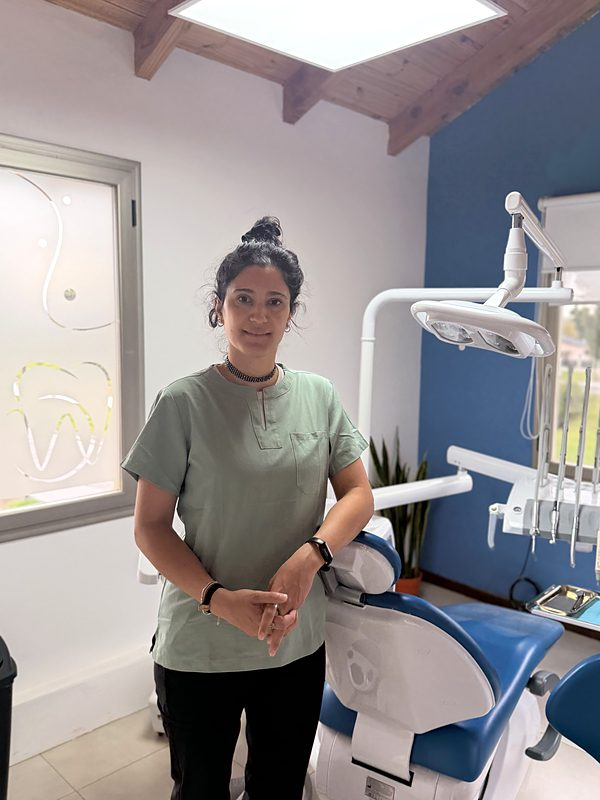
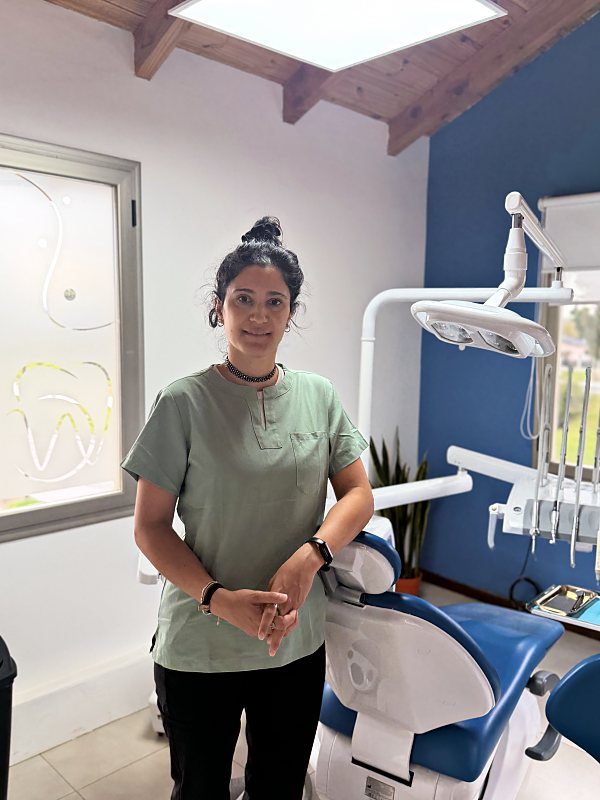
Fotos: retoque más marcado y escenas de atención
Nuevo revelado parejo para todas: balance de blancos sobre las paredes,
blancos más limpios, curva de contraste suave, claridad, más color sin
tocar la piel y nitidez con máscara. Los ambientes se enderezan
(verticales y horizonte); las fotos con personas no se deforman.

Suma escenas de los videos: atención en el sillón en el inicio y una
consulta en el escritorio en /nati/. Cambia la ficha con datos escritos
por un detalle de instrumental y ajusta formatos de los huecos altos.

Claude-Session: https://claude.ai/code/session_01KoU4Ukg6g7rux7BHJJZ492

Changed region(s): [[0.42, 0.2812, 0.48, 0.3125], [0.39, 0.875, 0.42, 0.9375], [0.84, 0.375, 0.87, 0.4062]]

diff --git a/index.html b/index.html
@@ -8,7 +8,7 @@
 <meta name="theme-color" content="#2B3B5A">
 <meta property="og:title" content="Consultorios Dina Huapi">
 <meta property="og:description" content="Odontología de cerca, para niños y adultos, en Dina Huapi.">
-<meta property="og:image" content="https://santiagojdv.github.io/consultorios-dina-huapi/img/nati-consultorio.jpg">
+<meta property="og:image" content="https://santiagojdv.github.io/consultorios-dina-huapi/img/hero-atencion.jpg">
 <meta property="og:type" content="website">
 <meta property="og:locale" content="es_AR">
 <link rel="icon" href="turnos/icono.svg" type="image/svg+xml">
@@ -16,9 +16,9 @@
 <link rel="preconnect" href="https://fonts.gstatic.com" crossorigin>
 <link rel="stylesheet" href="https://fonts.googleapis.com/css2?family=Cormorant+Garamond:wght@500;600&family=Poppins:wght@300;400;500&display=swap">
 <link rel="stylesheet" href="assets/sitio.css">
-<link rel="preload" as="image" href="img/nati-consultorio.jpg">
+<link rel="preload" as="image" href="img/hero-atencion.jpg">
 <script type="application/ld+json">
-{"@context":"https://schema.org","@type":"Dentist","name":"Consultorios Dina Huapi","address":{"@type":"PostalAddress","streetAddress":"Estados Unidos 860, Oficina D","addressLocality":"Dina Huapi","addressRegion":"Río Negro","addressCountry":"AR"},"image":"img/nati-consultorio.jpg"}
+{"@context":"https://schema.org","@type":"Dentist","name":"Consultorios Dina Huapi","address":{"@type":"PostalAddress","streetAddress":"Estados Unidos 860, Oficina D","addressLocality":"Dina Huapi","addressRegion":"Río Negro","addressCountry":"AR"},"image":"img/hero-atencion.jpg"}
 </script>
 </head>
 <body>
@@ -72,7 +72,7 @@
         </div>
       </div>
       <div class="hero-media reveal d1">
-        <img src="img/nati-consultorio.jpg" alt="La Dra. Natalia Cárdenas sentada junto al sillón odontológico en el consultorio" width="1024" height="1280" fetchpriority="high">
+        <img src="img/hero-atencion.jpg" alt="La Dra. Natalia Cárdenas atendiendo a una paciente en el sillón odontológico" width="1024" height="1280" fetchpriority="high">
         <a class="hero-badge" href="turnos/"><span class="dot" aria-hidden="true"></span><span><strong>Turnos online</strong><br>Elegí día y horario desde el celular.</span></a>
       </div>
     </div>
@@ -96,8 +96,8 @@
   <section class="section navy director" id="natalia" aria-labelledby="natalia-titulo">
     <div class="wrap director-grid">
       <div class="director-media reveal">
-        <img class="main" src="img/nati-trabajando.jpg" alt="La Dra. Natalia Cárdenas preparando el instrumental junto al sillón" width="896" height="1120" loading="lazy">
-        <img class="inset" src="img/fichas.jpg" alt="Manos sosteniendo una ficha odontológica" width="400" height="600" loading="lazy">
+        <img class="main" src="img/nati-retrato.jpg" alt="La Dra. Natalia Cárdenas sonriendo, sentada junto al sillón odontológico" width="896" height="1120" loading="lazy">
+        <img class="inset" src="img/instrumento.jpg" alt="Mano con guante sosteniendo una pieza de mano odontológica" width="400" height="600" loading="lazy">
       </div>
       <div class="director-copy">
         <span class="eyebrow reveal">Ortodoncia y estética facial</span>
@@ -197,7 +197,7 @@
         <p class="lead reveal d2">Un espacio luminoso, con equipamiento nuevo y esterilización propia de todo el instrumental. Lo que no se ve también se cuida.</p>
       </div>
       <div class="mosaic reveal">
-        <figure><img src="img/consultorio-1.jpg" alt="Consultorio con sillón odontológico azul, lámpara y equipo" width="1536" height="1024" loading="lazy"><figcaption>Consultorio</figcaption></figure>
+        <figure><img src="img/consultorio-1.jpg" alt="Consultorio con sillón odontológico azul, lámpara y equipo" width="1400" height="1050" loading="lazy"><figcaption>Consultorio</figcaption></figure>
         <figure><img src="img/sala-espera-800.jpg" alt="Sala de espera con sillas blancas, pared azul y plantas" width="800" height="533" loading="lazy"><figcaption>Sala de espera</figcaption></figure>
         <figure><img src="img/instrumental-800.jpg" alt="Bandeja con instrumental preparado junto al sillón" width="600" height="800" loading="lazy"><figcaption>Instrumental</figcaption></figure>
       </div>

diff --git a/profesionales/index.html b/profesionales/index.html
@@ -100,7 +100,7 @@ table.compare { width: 100%; min-width: 40rem; border-collapse: collapse; font-s
         </div>
       </div>
       <div class="hero-media reveal d1">
-        <img src="../img/consultorio-2.jpg" alt="Consultorio odontológico con sillón azul, equipo y banqueta" width="1536" height="1024" fetchpriority="high">
+        <img src="../img/consultorio-2.jpg" alt="Consultorio odontológico con sillón azul, equipo y banqueta" width="1024" height="1280" fetchpriority="high">
         <div class="hero-badge"><span class="dot" aria-hidden="true"></span><span><strong>Bloques disponibles</strong><br>Consultá los días y horarios libres. <!-- falta: bloques disponibles --></span></div>
       </div>
     </div>
@@ -160,7 +160,7 @@ table.compare { width: 100%; min-width: 40rem; border-collapse: collapse; font-s
         </div>
       </div>
       <div class="split flip" style="margin-top:clamp(3.5rem,7vw,6rem)">
-        <div class="media wide reveal"><img src="../img/consultorio-equipado.jpg" alt="Sillón odontológico con equipo, mueble de cajones y calefactor" width="1536" height="1024" loading="lazy"></div>
+        <div class="media wide reveal"><img src="../img/consultorio-equipado.jpg" alt="Sillón odontológico con equipo, mueble de cajones y calefactor" width="1400" height="1050" loading="lazy"></div>
         <div class="copy reveal d1">
           <span class="eyebrow">Equipamiento</span>
           <h2>Un consultorio <em>completo</em></h2>

diff --git a/nati/index.html b/nati/index.html
@@ -532,7 +532,7 @@ footer .legal a{color:var(--white);text-decoration:none;border-bottom:1px solid 
 
   <section class="sec about" id="natalia">
     <div class="wrap">
-      <figure class="photo"><img src="img/natalia-trabajando.jpg" alt="Natalia Cárdenas preparando el instrumental junto al sillón" width="1120" height="1400" loading="lazy"></figure>
+      <figure class="photo"><img src="img/natalia-consulta.jpg" alt="Natalia Cárdenas tomando notas durante una consulta con una paciente" width="1120" height="1400" loading="lazy"></figure>
       <div class="copy">
         <p class="eyebrow">Quién te atiende</p>
         <h2 class="h-display h2">Natalia F. Cárdenas</h2>

diff --git a/turnos/index.html b/turnos/index.html
@@ -9,7 +9,7 @@
 <link rel="manifest" href="manifest.webmanifest">
 <meta property="og:title" content="Turnos · Consultorios Dina Huapi">
 <meta property="og:description" content="Elegí día y horario y reservá tu turno online.">
-<meta property="og:image" content="https://santiagojdv.github.io/consultorios-dina-huapi/img/nati-consultorio.jpg">
+<meta property="og:image" content="https://santiagojdv.github.io/consultorios-dina-huapi/img/hero-atencion.jpg">
 <link rel="icon" href="icono.svg" type="image/svg+xml">
 <link rel="preconnect" href="https://fonts.googleapis.com">
 <link rel="preconnect" href="https://fonts.gstatic.com" crossorigin>
